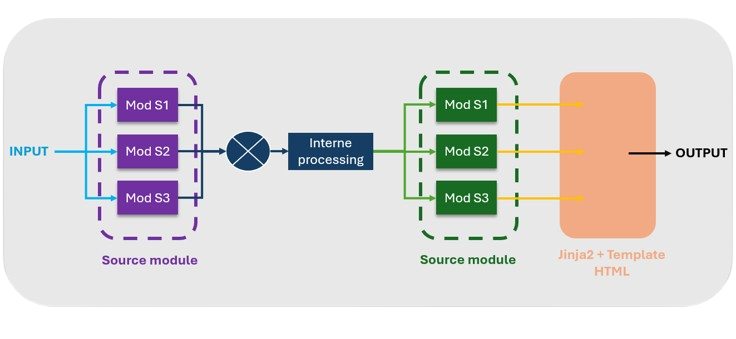
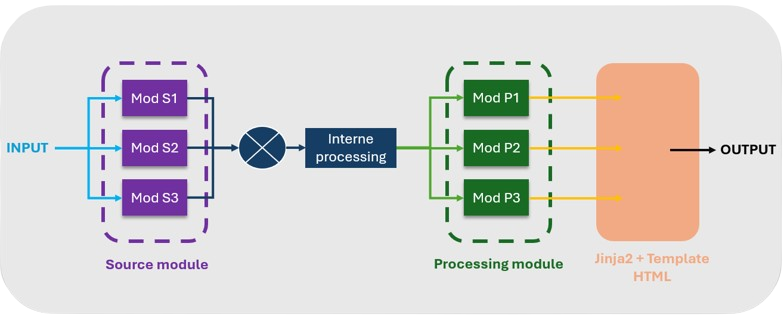
Modification readme - Changement style

diff --git a/src/main.py b/src/main.py
@@ -15,7 +15,7 @@ console = Console(force_terminal=True)
 
 def __say_hello():
     console.print("""
-[bold magenta]
+[bold blue]
  ▄██████▄     ▄█    █▄       ▄████████  ▄████████    ▄████████ ███▄▄▄▄   
 ███    ███   ███    ███     ███    ███ ███    ███   ███    ███ ███▀▀▀██▄ 
 ███    ███   ███    ███     ███    █▀  ███    █▀    ███    ███ ███   ███ 
@@ -25,7 +25,7 @@ def __say_hello():
 ███    ███   ███    ███      ▄█    ███ ███    ███   ███    ███ ███   ███ 
  ▀██████▀    ███    █▀     ▄████████▀  ████████▀    ███    █▀   ▀█   █▀  
                                                                          
-[/bold magenta]Version 1.0
+[/bold blue]Version 1.0
 by [italic]@ohohoh[/italic]
 """)
 

diff --git a/readme.md b/readme.md
@@ -1,51 +1,77 @@
-# Ohscan
+Ohscan
+========
 
-```
- ▄██████▄     ▄█    █▄       ▄████████  ▄████████    ▄████████ ███▄▄▄▄   
-███    ███   ███    ███     ███    ███ ███    ███   ███    ███ ███▀▀▀██▄ 
-███    ███   ███    ███     ███    █▀  ███    █▀    ███    ███ ███   ███ 
-███    ███  ▄███▄▄▄▄███▄▄   ███        ███          ███    ███ ███   ███ 
-███    ███ ▀▀███▀▀▀▀███▀  ▀███████████ ███        ▀███████████ ███   ███ 
-███    ███   ███    ███            ███ ███    █▄    ███    ███ ███   ███ 
-███    ███   ███    ███      ▄█    ███ ███    ███   ███    ███ ███   ███ 
- ▀██████▀    ███    █▀     ▄████████▀  ████████▀    ███    █▀   ▀█   █▀  
-                                                                         
-```
+<div align="center">
+  <br>
+  <img src=".readme/logo.png" alt="dalfox" width="200px;">
+</div>
+<p align="center">
+  <a href="https://github.com/ahihuh/ohscan/blob/main/CONTRIBUTING.md"><img src="https://img.shields.io/badge/contributions-welcome-brightgreen.svg?style=for-the-badge&labelColor=%2330365e&color=%2330365e"></a>
+</p>
 
-> Un scanneur de nom de domaine portable et performant, conçu pour les pentests et le bug bounty.
+*Ohscan* est scanneur de nom de domaine opensource, dockerisé, portable et performant, conçu pour les pentests et le bug bounty.
+
+L'objectif est de s'affranchir des scripts et configurations personnalisés en proposant une solution unifiée, tirant pleinement parti des outils disponibles.
 
 Les avantages :
-- :alarm_clock: installation rapide
+- :alarm_clock: installation simple et rapide
 - :handbag: portabilité
 - :bulb: efficacité
 - :wrench: modulable
 
+Installation
+----------------------------
+
+Installer et lancer docker, puis :
+
+```bash
+$ docker build -t ohscan:latest .
+$ docker run -v "output:/app/output" ohscan
+```
+
+Utilisation
+----------------------------
+
+```bash
+$ docker run -v "output:/app/output" ohscan domain.com
+```
+
+
+Demonstration
+----------------------------
+
+* Lancement d'un scan
+
 ![alt text](.readme/example.gif)
 
-## Installation
+* Présentation des résultats
 
-```bash
-docker build -t ohscan:latest .
-docker run -v "output:/app/output" ohscan
-```
+![alt text](.readme/example.result.png)
 
-## Utilisation
 
-```bash
-docker run -v "output:/app/output" ohscan domain.com
-```
-
-## Fonctionnement
+Fonctionnement
+----------------------------
 
 ![](.readme/workflow.png)
 
-Le projet fonctionne à l'aide de deux types de modules :
-- des modules de **sources**. Ils prennent en paramètre l'argument utilisateur et génère à partir de celui-ci une liste de données (subdomain, URL, ...).
-- des modules de **post-processing**. Ils prennent en paramètre la liste générée via les modules sources et effectue des opérations qui seront affichés dans le rendu. 
+Le projet repose sur une architecture modulaire composée de deux types principaux de modules :
 
-Ces modules peuvent être codé directement en Python, où faire appel à des programmes externes.
+* **Modules sources** : Ces modules prennent en entrée l’argument fourni par l’utilisateur (par exemple un domaine), et génèrent une liste de données à partir de celui-ci (sous-domaines, URLs, etc.).
 
-## Implementé
+* **Modules de post-traitement** : positionnés en fin de chaine, ces modules reçoivent la liste de données générée par les modules sources (et préalablement traitée en interne), puis réalisent des opérations supplémentaires afin de produire de nouvelles données intégrées au rendu final.
+
+Exemples :
+
+* Le module **subfinder**, qui s’appuie sur l’outil du même nom, est un module source.
+
+* Le module **httpx**, également basé sur l’outil du même nom, agit comme module de post-traitement.
+
+Chaque module peut être développé en Python ou faire appel à des programmes externes.
+
+Le rendu final est généré sous forme HTML, en s’appuyant sur un template de base enrichi à l’aide du moteur de templates Jinja2.
+
+Modules implémentés
+----------------------------
 
 - [httpx](https://github.com/projectdiscovery/httpx)
 - [subfinder](https://github.com/projectdiscovery/subfinder)
@@ -53,7 +79,36 @@ Ces modules peuvent être codé directement en Python, où faire appel à des pr
 - [puredns](https://github.com/d3mondev/puredns)
 - [shosubgo](https://github.com/incogbyte/shosubgo)
 
-## Todo
+Ajouter des modules
+----------------------------
+
+* Module source
+
+Pour ajouter un module source, il suffit de créer une fonction dans le fichier `src/modules/mod_source.py`, puis de l’ajouter à la liste `MODS_SOURCE` afin qu’elle soit chargée automatiquement.
+
+```python
+def _mod__mynewmodule(domain : str) -> list:
+    ...
+    return generated_data
+...
+MODS_SOURCE = [
+    ...
+    {"name":"mynewmodule","f":_mod__mynewmodule},
+]
+```
+
+* Module post-processing
+
+L’ajout d’un module de post-traitement suit le même principe qu’un module source, à la différence qu’il doit être défini dans le fichier `src/modules/mod_processing.py` et référencé dans la liste `MODS_PROCESSING`.
+
+Pour afficher les résultats, il est également nécessaire de modifier le template `assets/template.html`. Les données générées par ce module seront accessibles dans le template via la variable `data.<nom_du_module>`.
+
+Contribution
+----------------------------
+
+Si vous avez envie de contribuer au projet en ajoutant de nouveaux modules, en corrigeant des bugs ou en proposant des améliorations, ce sera avec grand plaisir ! Je suis toujours disponible pour échanger et discuter :heart:.
+
+## Todo list
 
 - Organiser la présentation des résultats:
     - faire une catégorie non de domaine, lien up, état inconnu
